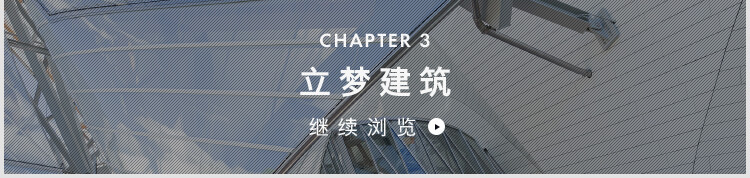
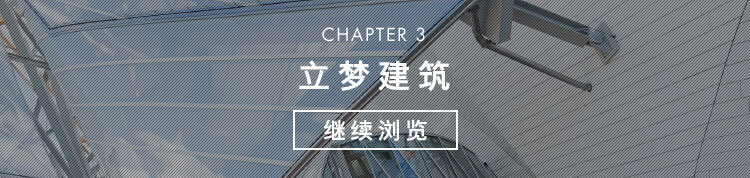
no message

diff --git a/src/LV/Bundle/FondationBundle/Resources/public/css/style.css b/src/LV/Bundle/FondationBundle/Resources/public/css/style.css
@@ -226,6 +226,7 @@ html,body,#dreambox{
 
 .dreamTrip{
 	width: 100%;
+	overflow: hidden;
 }
 
 .dreamTrip img{
@@ -414,6 +415,20 @@ html,body,#dreambox{
   100% {opacity: 0;}
 }
 
+
+.chapter_hand{
+	width: 36%;
+	position: absolute;
+	left: 46%;
+	top: 76%;
+}
+
+.hand_rTips{
+	width: 30%;
+	position: absolute;
+	left: 0;
+	bottom: 0;
+}
 
 
 
@@ -767,7 +782,7 @@ html,body,#dreambox{
 }
 
 
-.hands_active { 
+.hands_active,.chapter_hand { 
   -webkit-animation: handTips_ani 1.5s infinite linear;
      -moz-animation: handTips_ani 1.5s infinite linear;
           animation: handTips_ani 1.5s infinite linear;
